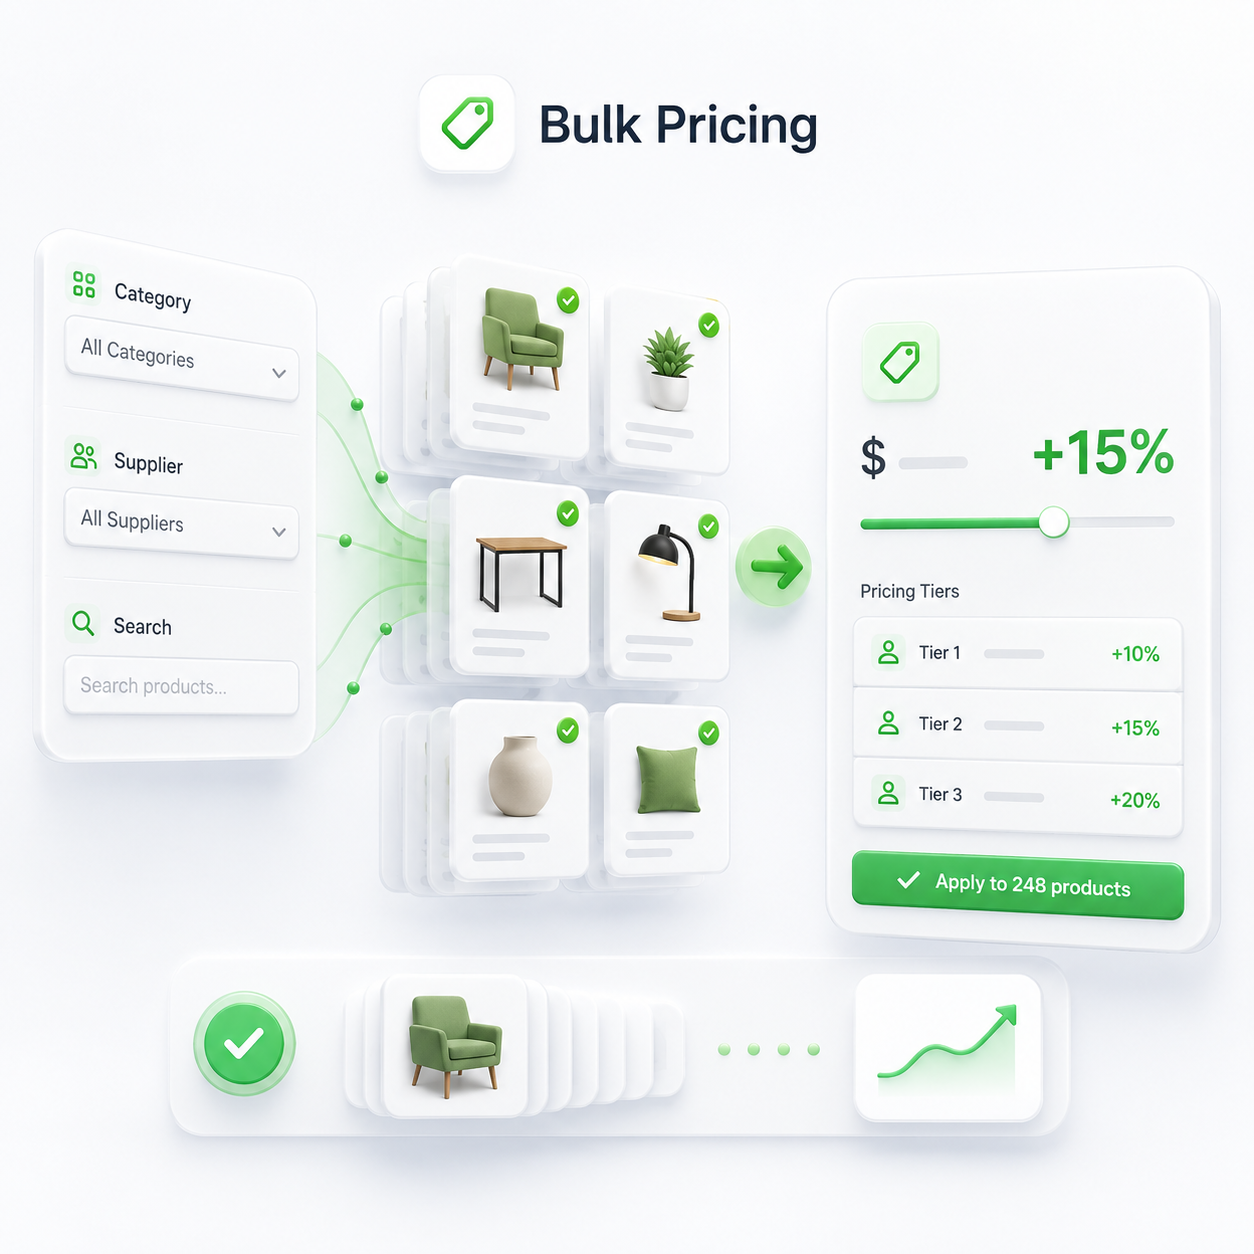
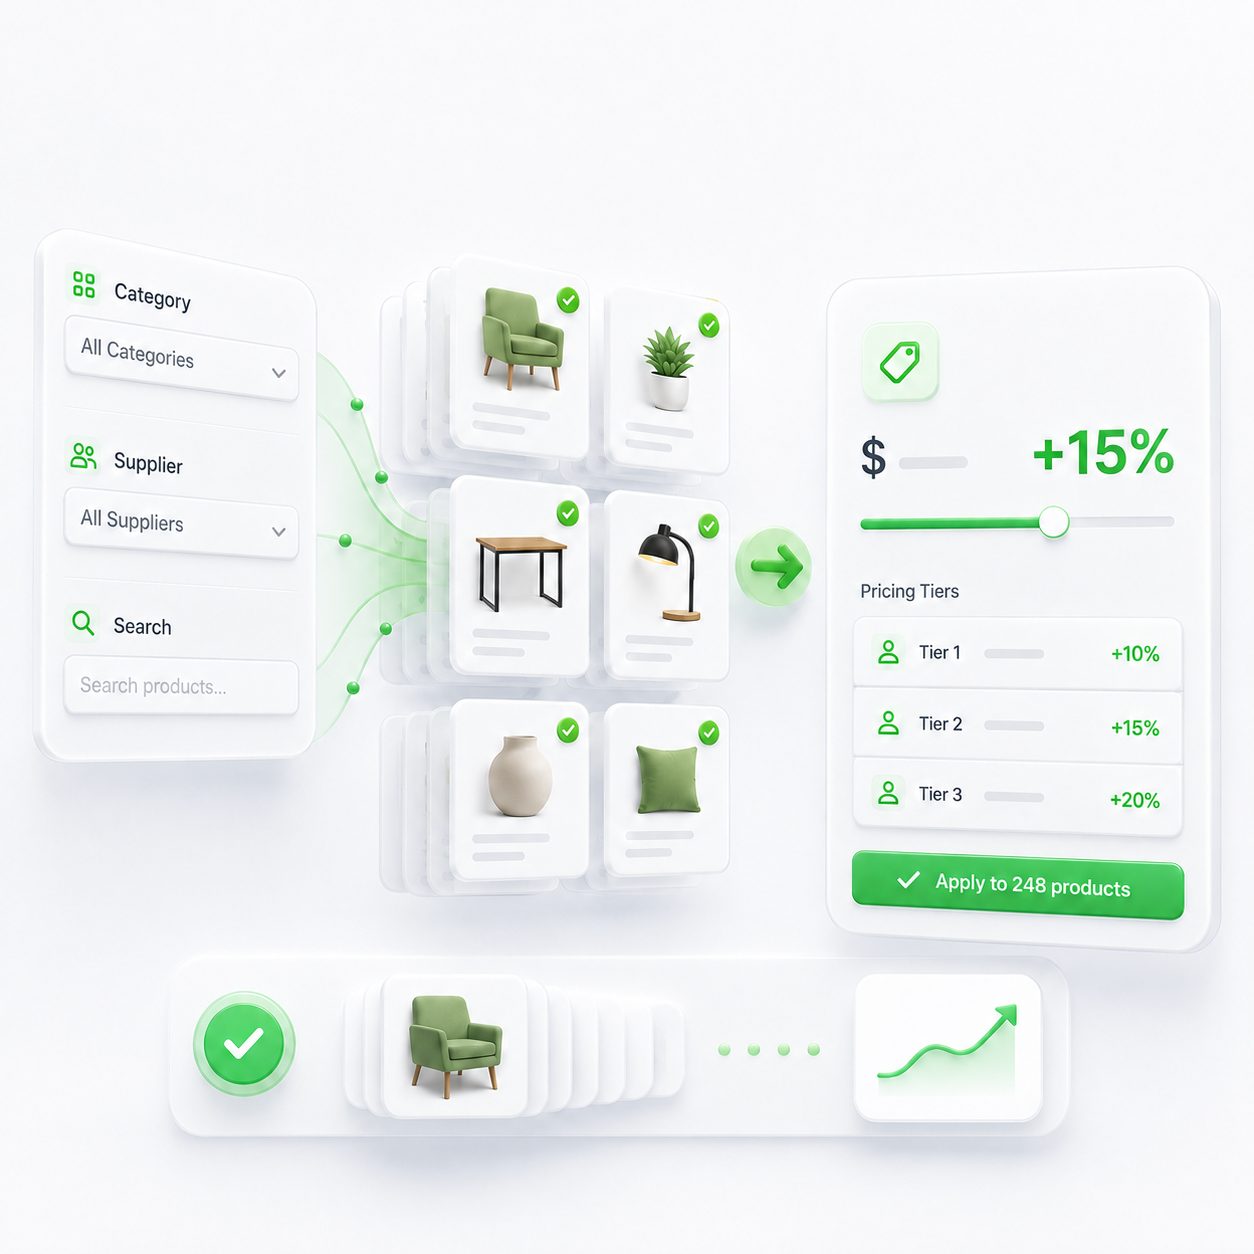
Marketing page: two-column hero, 4-up feature grid, refreshed illustrations
Hero text now sits left of the hero image in a two-column layout on
larger screens (left-aligned copy, image right), stacking naturally on
mobile — was previously centered text stacked above a full-width image.
Features grid goes to 4 columns on large screens instead of 3, giving
the 8 modules two clean rows of 4.

Swapped in updated Replenish/Bulk Pricing illustrations (same scenes,
without the redundant in-image title header, since the card already
renders its own title below).

diff --git a/src/app/marketing-home.tsx b/src/app/marketing-home.tsx
@@ -98,20 +98,20 @@ export default async function MarketingHome() {
             WebkitMaskImage: "radial-gradient(ellipse 75% 70% at 72% 25%, #000 40%, transparent 100%)",
           }}
         />
-        <div className="relative mx-auto max-w-6xl px-6 py-20 lg:py-24">
-          <div className="mx-auto max-w-2xl text-center">
+        <div className="relative mx-auto grid max-w-6xl grid-cols-1 items-center gap-12 px-6 py-20 lg:grid-cols-2 lg:py-24">
+          <div className="mx-auto max-w-xl text-center lg:mx-0 lg:text-left">
             <p className="font-mono text-xs font-medium uppercase tracking-wide text-indigo-300">The admin layer for Cin7 Core</p>
             <h1 className="mt-5 text-4xl font-bold leading-tight tracking-tight text-white sm:text-5xl">
               Do amazing things
               <br />
               you <span className="text-indigo-300">can&rsquo;t do</span> in Cin7 Core.
             </h1>
-            <p className="mx-auto mt-5 max-w-xl text-lg text-sidebar-text">
+            <p className="mt-5 max-w-xl text-lg text-sidebar-text">
               Push one import to every instance, bulk-fix your data, pricing, and reorder points, replenish stock
               across locations, score each instance&rsquo;s health, migrate cleanly, and report on what Cin7 Core keeps
               hidden — all from one console.
             </p>
-            <div className="mt-7 flex flex-wrap justify-center gap-3">
+            <div className="mt-7 flex flex-wrap justify-center gap-3 lg:justify-start">
               <Link
                 href={CTA_HREF}
                 className="rounded-lg bg-indigo-600 px-5 py-3 font-semibold text-white shadow-sm transition hover:-translate-y-px hover:bg-indigo-500"
@@ -125,7 +125,7 @@ export default async function MarketingHome() {
                 See what it does
               </a>
             </div>
-            <p className="mt-5 flex flex-wrap items-center justify-center gap-2 font-mono text-xs text-sidebar-text">
+            <p className="mt-5 flex flex-wrap items-center justify-center gap-2 font-mono text-xs text-sidebar-text lg:justify-start">
               <span className="text-emerald-400">●</span> No card required · Connect 1 instance, read-only · See it on your
               own data
             </p>
@@ -136,7 +136,7 @@ export default async function MarketingHome() {
             width={1536}
             height={1024}
             priority
-            className="relative mt-14 w-full rounded-2xl border border-sidebar-border shadow-2xl"
+            className="relative w-full rounded-2xl border border-sidebar-border shadow-2xl"
           />
         </div>
       </header>
@@ -187,7 +187,7 @@ export default async function MarketingHome() {
               Cin7 Core administration.
             </p>
           </Reveal>
-          <div className="grid gap-5 sm:grid-cols-2 lg:grid-cols-3">
+          <div className="grid gap-5 sm:grid-cols-2 lg:grid-cols-4">
             {FEATURES.map((m) => {
               const Icon = m.Icon;
               return (